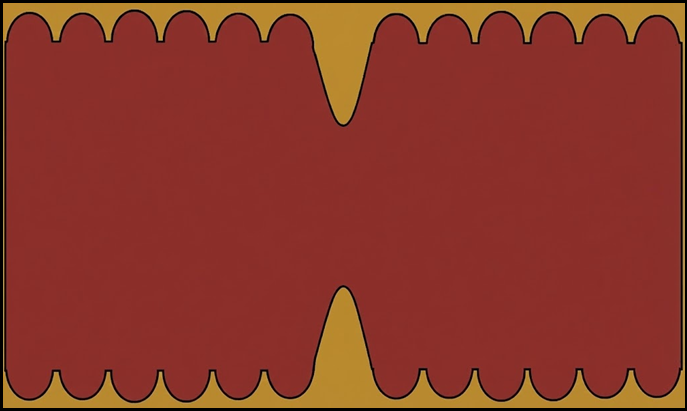
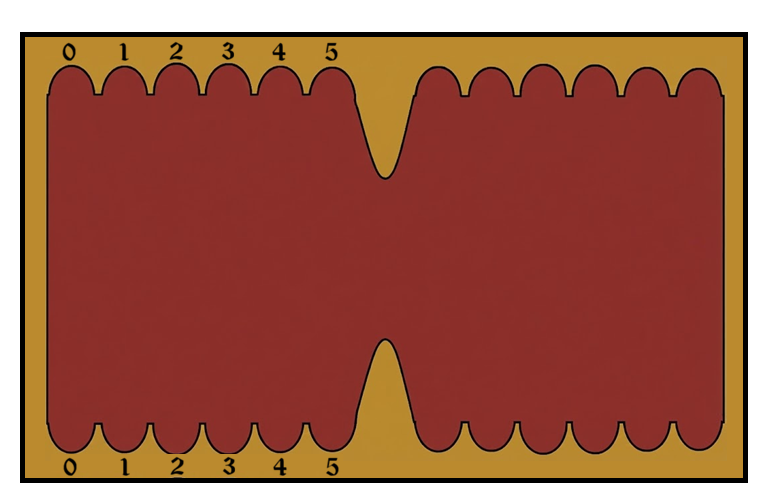
Fixed game model so spaces on the board have pieces which have a player

diff --git a/games/doblet/Doblet.js b/games/doblet/Doblet.js
@@ -2,7 +2,7 @@
 This represents the model of the game
 */
 
-const Piece = require('./Piece');
+const { Piece } = require('./Piece');
 
 class Doblet {
     constructor(id, players, board, currentPlayer) {
@@ -29,6 +29,7 @@ class Doblet {
             this.currentPlayer = this.players[1];
             this.otherPlayer = this.players[0];
         }
+        console.log(this.board)
         for (let i=0; i<6; i++) {
             this.board[i][0].push(new Piece(this.players[0], 0));
             this.board[i][0].push(new Piece(this.players[0], 0));
@@ -39,7 +40,7 @@ class Doblet {
 
     setCurrentPlayer(player) {
         this.currentPlayer = player;
-        this.otherPlayer == this.player1 ? this.otherPlayer = this.player2 : this.otherPlayer = this.player1;
+        this.otherPlayer == this.players[0] ? this.otherPlayer = this.players[1] : this.otherPlayer = this.players[0];
     }
 
     getRandomInt(min, max) {
@@ -57,43 +58,43 @@ class Doblet {
     }
 
     canMove(player, i) {
-        if (player == this.player1) {
+        if (player.playerNumber == 1) {
             if (player.phase == 1) {
-                if (this.board[i][1][0] == 0) {
-                    this.board[i][0][0]--;
-                    this.board[i][1][0]++;
+                if (this.board[i][1].length == 0) {
+                    this.board[i][0].pop();
+                    this.board[i][1].push(new Piece(player, 1));
                     return true;
                 }
                 else { return false; }           
             }
             else {
-                if (this.board[i][1][0] > 0) {
-                    this.board[i][1][0]--;
+                if (this.board[i][1].length > 0) {
+                    this.board[i][1].pop();
                     return true;
                 }
-                else if (this.board[i][0][0] > 0) {
-                    this.board[i][0][0]--;
+                else if (this.board[i][0].length > 0) {
+                    this.board[i][0].pop();
                     return true;
                 } 
                 else {return false;}
             }
         }
-        else if (player == this.player2) {
+        else if (player.playerNumber == 2) {
             if (player.phase == 1) {
-                if (this.board[i][2][0] == 0) {
-                    this.board[i][3][0]--;
-                    this.board[i][2][0]++;
+                if (this.board[i][2].length == 0) {
+                    this.board[i][3].pop();
+                    this.board[i][2].push(new Piece(player, 2));
                     return true;
                 }
                 else {return false;}
             }
             else {
-                if (this.board[i][2][0] > 0) {
-                    this.board[i][2][0]--;
+                if (this.board[i][2].length > 0) {
+                    this.board[i][2].pop();
                     return true;
                 }
-                else if (this.board[i][3][0] > 0) {
-                    this.board[i][3][0]--;
+                else if (this.board[i][3].length > 0) {
+                    this.board[i][3].pop();
                     return true;
                 } 
                 else {return false;}
@@ -102,22 +103,22 @@ class Doblet {
     }
 
     allPlayedDown(player) {
-        if (player == this.player1) {
+        if (player.playerNumber == 1) {
             for (let i=0; i<6;i++) {
-                if (this.board[i][0][0] != 1) {return false;}
+                if (this.board[i][0].length != 1) {return false;}
             }
         }
-        else if (player == this.player2) {
+        else if (player.playerNumber == 2) {
             for (let i=0; i<6;i++) {
-                if (this.board[i][3][0] != 1) {return false;}
+                if (this.board[i][3].length != 1) {return false;}
             }
         }
         return true;
     }
 
     gameOver() {
-        const player1Won = this.board.every(row => row[0][0] === 0 && row[1][0] === 0);
-        const player2Won = this.board.every(row => row[2][0] === 0 && row[3][0] === 0);
+        const player1Won = this.board.every(row => row[0].length === 0 && row[1].length === 0);
+        const player2Won = this.board.every(row => row[2].length === 0 && row[3].length === 0);
         return player1Won || player2Won;
     }
 
@@ -126,6 +127,7 @@ class Doblet {
     }
 
     takeTurn() {
+        console.log("New turn:")
         console.log(`current player: ${this.currentPlayer.username}, other player: ${this.otherPlayer.username}`);
         this.dice = this.rollDice(3);
         for (let i=0; i<3; i++) {
@@ -149,15 +151,11 @@ class Doblet {
                 }
             }
         }
-        console.log(`Winner: ${this.winner}`);
         if (this.winner) {
             return;
         }
         else {
             this.setCurrentPlayer(this.otherPlayer);
-            console.log(`current player: ${this.currentPlayer.username}, other player: ${this.otherPlayer.username}`);
-            // console.log(this.board);
-            // console.log(this.board[0][0], this.board[0][1], this.board[0][2], this.board[0][3]);
         }
     }
 }

diff --git a/games/doblet/DobletController.js b/games/doblet/DobletController.js
@@ -3,18 +3,20 @@ const GameInstance = require('../../models/GameInstance');
 const User = require('../../models/User');
 const Doblet = require('./Doblet');
 const endGame = require('../../controllers/gameInstanceController').endGame;
+const io = require('../../server');
 
 // for now automatically makes the host player1, later implement the players rolling for first
 const createDobletInstance = asyncHandler(async (req,res) => {
     const id1 = req.user.id;
     const user1 = await User.findById(id1);
     const dobletObject = {  "owner": id1,
-                            "board": Array(6).fill(Array(4).fill([0, null])),
+                            "board": Array(6).fill(Array(4).fill([])),
                             // "currentPlayer":{"_id": id1, "username": user1.username},
                             "title": "doblet",
                             "started": false,
                             "invites": [],
                             "players": [],
+                            "playerCount": 1
                         };
     const gameInstance = await GameInstance.create(dobletObject);
     if (!gameInstance) {
@@ -23,7 +25,8 @@ const createDobletInstance = asyncHandler(async (req,res) => {
     const player1 = {   "_id": id1,
                         "phase": 1,
                         "username": user1.username,
-                        "icon": user1.icon
+                        "icon": user1.icon,
+                        "playerNumber": 1
     }
     gameInstance.players.addToSet(player1);
     gameInstance.save();
@@ -50,7 +53,7 @@ const startGame = asyncHandler(async (req,res) => {
     let gameModel = new Doblet(gameInstance._id, gameInstance.players, gameInstance.board, null)
     gameModel.setup();
     const updatedGame = await GameInstance.findByIdAndUpdate(tableID, 
-        {"currentPlayer": gameModel.currentPlayer, "board": gameModel.board, "players": [gameModel.player1, gameModel.player2]}, {new: true});
+        {"currentPlayer": gameModel.currentPlayer, "board": gameModel.board, "players": gameModel.players}, {new: true});
     io.to(tableID).emit('game-start', {message: `Game instance ${tableID} started`});
     res.status(201).json({message: `Game instance ${tableID} started`});
 });
@@ -71,12 +74,12 @@ const play = asyncHandler(async (req,res) => {
     let gameModel = new Doblet(game._id, game.players, game.board, game.currentPlayer)
     gameModel.takeTurn();
     const updatedGame = await GameInstance.findByIdAndUpdate(id, 
-        {"currentPlayer": gameModel.currentPlayer, "board": gameModel.board, "players": [gameModel.player1, gameModel.player2]}, {new: true});
+        {"currentPlayer": gameModel.currentPlayer, "board": gameModel.board, "players": gameModel.players}, {new: true});
     const room = id;
     io.to(room).emit('game-update', {board: updatedGame.board, gameState: updatedGame, dice: gameModel.dice, winner: gameModel.winner})
     if (gameModel.winner) {
         // res.status(201).json({message: `New board state: ${updatedGame.board}`, board: updatedGame.board, currentPlayer: updatedGame.currentPlayer, winner: gameModel.winner});
-        console.log(updatedGame)
+        // console.log(updatedGame)
         io.to(room).emit('game-update', {board: updatedGame.board, currentPlayer: updatedGame.currentPlayer, 
             dice: gameModel.dice, winner: gameModel.winner})
         await endGame(id);

diff --git a/controllers/gameInstanceController.js b/controllers/gameInstanceController.js
@@ -30,7 +30,8 @@ const getAllData = asyncHandler(async (req,res) => {
     if (!game) {
         return res.status(400).json({message: "Game instance not found"});
     }
-    if (!game.players.some(player => player._id.toString() == req.user.id)) {
+    console.log(`game: ${game}`)
+    if (!game.players.some(player => player?._id && player._id.toString() == req.user.id)) {
         return res.status(403).json({message: "Forbidden"});
     }
     // is this redundant now?
@@ -42,7 +43,6 @@ const getAllData = asyncHandler(async (req,res) => {
     }  
     const owner = await User.findById(game.owner).exec();
     game.owner = owner;
-
     res.json(game);
 });
 
@@ -55,13 +55,14 @@ const loadGame = asyncHandler(async (req,res) => {
     if (!game) {
         return res.status(400).json({message: "Game instance not found"});
     }
-    if (!game.players.some(player => player._id.toString() == req.user.id)) {
+    if (!game.players.some(player => player?._id && player._id.toString() == req.user.id)) {
         return res.status(403).json({message: "Forbidden"});
     }
     for (let player of game.players) {
         const user = await User.findById(player._id);
         player.username = user.username;
         player.icon = user.icon;
+        player.playerNumber = game.playerCount;
     }
     return game;
 });
@@ -95,7 +96,8 @@ const addPlayer = asyncHandler(async (req,res) => {
         { _id: tableID },
         { 
             $pull: { invites: { _id: userID } },
-            $addToSet: { players: { _id: newPlayer._id, username: newPlayer.username, icon: newPlayer.icon, phase: 1 } }
+            $addToSet: { players: { _id: newPlayer._id, username: newPlayer.username, icon: newPlayer.icon, phase: 1, playerNumber: gameInstance.playerCount +1 } },
+            $inc: { playerCount: 1 }
         }
     );
     await User.updateOne(

diff --git a/games/doblet/Piece.js b/games/doblet/Piece.js
@@ -4,3 +4,5 @@ class Piece {
         this.position = position;
     }
 }
+
+module.exports = {Piece}
